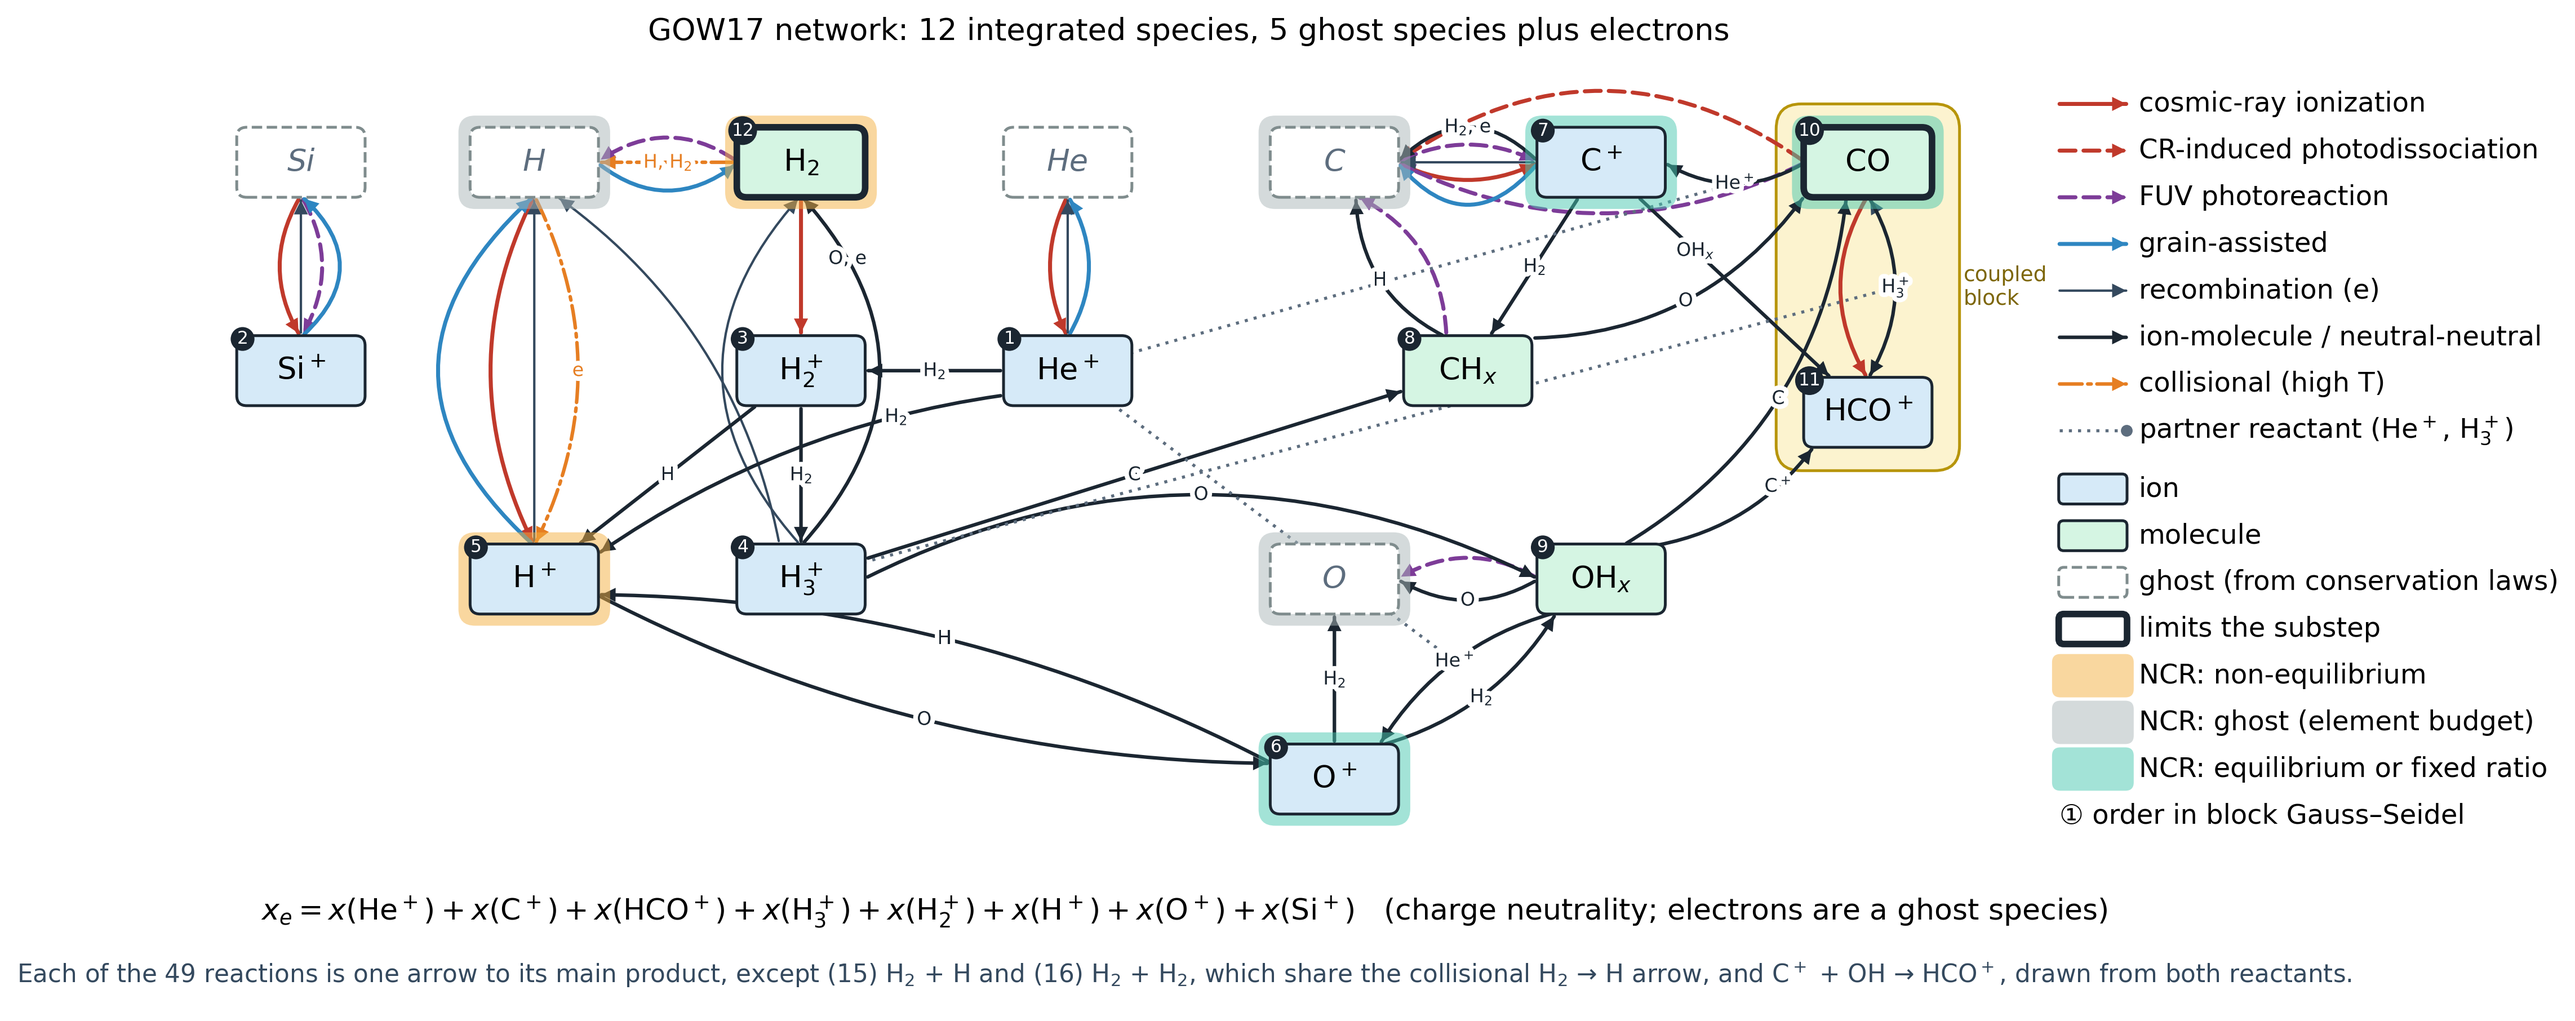
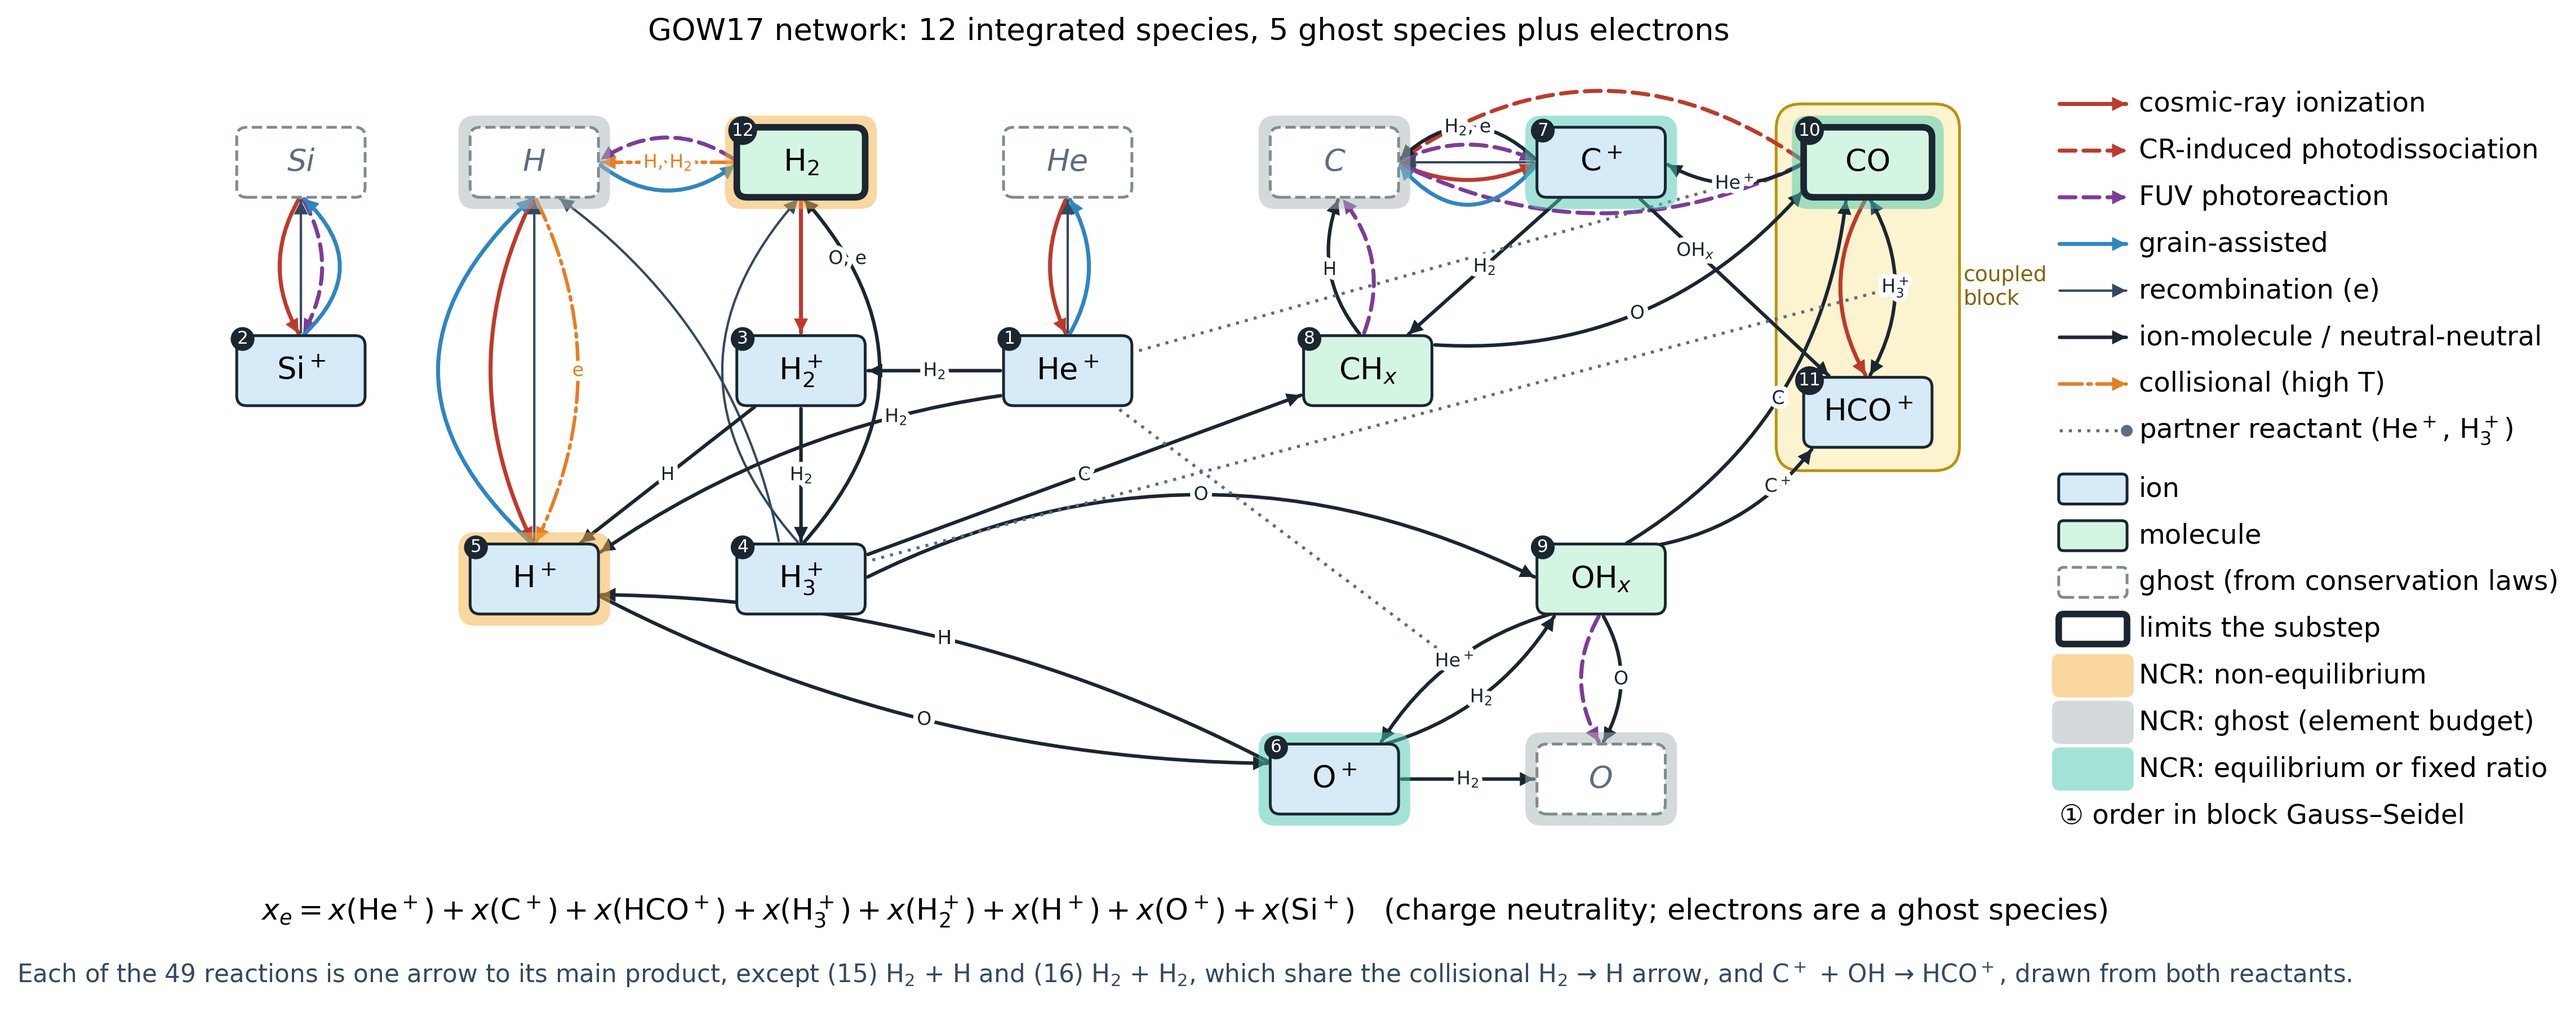
Move O and CHx in the GOW17 network diagram
O now sits right of O+ and below OHx, and CHx below C, which shortens
the O+ -> O, OHx -> O and CHx -> C arrows and clears crossings.

diff --git a/scripts/plot_gow17_network.py b/scripts/plot_gow17_network.py
@@ -28,8 +28,8 @@ POS = {
     "H": (1.0, 8.0), "H2": (4.2, 8.0), "H+": (1.0, 3.0),
     "H2+": (4.2, 5.5), "H3+": (4.2, 3.0),
     "C": (10.6, 8.0), "C+": (13.8, 8.0), "CO": (17.0, 8.0),
-    "CHx": (12.2, 5.5), "HCO+": (17.0, 5.0),
-    "O": (10.6, 3.0), "OHx": (13.8, 3.0), "O+": (10.6, 0.6),
+    "CHx": (11.0, 5.5), "HCO+": (17.0, 5.0),
+    "O": (13.8, 0.6), "OHx": (13.8, 3.0), "O+": (10.6, 0.6),
     "Si": (-1.8, 8.0), "Si+": (-1.8, 5.5),
 }
 TEX = {"He+": "He$^+$", "H2": "H$_2$", "H+": "H$^+$", "H2+": "H$_2^+$",
